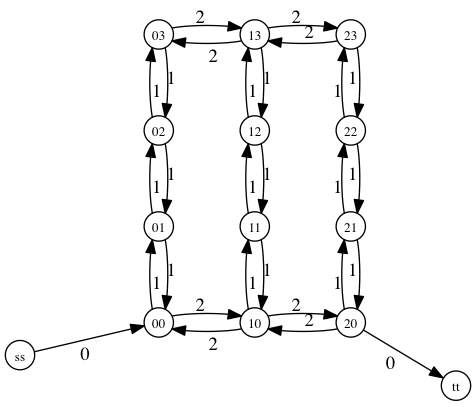
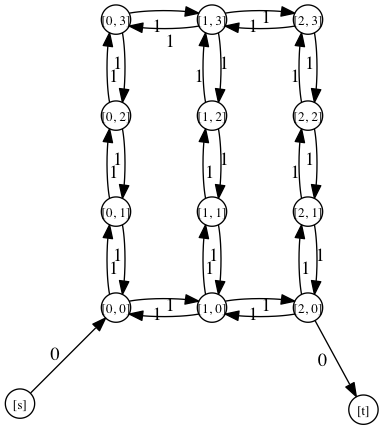
refactor code into classes for transition into Java

diff --git a/src/graphs/graph_test.py b/src/graphs/graph_test.py
@@ -2,6 +2,159 @@
 
 import networkx as nx
 import matplotlib.pyplot as plt
+from functools import total_ordering
+
+@total_ordering
+class AisleGraphPrimalNode(object):
+    """ Nodes in the primal (directed) aisle graph. """
+
+    def __init__(self, x, y, sentinal=None):
+        """ x, y are coordinates in AisleGraph. Set `sentinal` to True if this
+        is a sentinal node. """
+        self.x = x
+        self.y = y
+        assert sentinal in (None, "source", "sink")
+        self.sentinal = sentinal
+        self.label = sentinal or "{}, {}".format(self.x, self.y)
+        self.adjacencies = []
+
+    def add_adjacency(self, node):
+        self.adjacencies.append(node)
+
+    def __repr__(self):
+        return "[{}]".format(self.label)
+
+    # Make object hashable
+    def __key(self):
+        return (self.x, self.y)
+    def __eq__(self, other):
+        return self.__key() == other.__key()
+    def __lt__(self, other):
+        return self.__key() < other.__key()
+    def __hash__(self):
+        return hash(self.__key())
+
+class AisleGraphSource(AisleGraphPrimalNode):
+    def __init__(self):
+        AisleGraphPrimalNode.__init__(self, -1, -1, sentinal="source")
+        self.label = "s"
+class AisleGraphSink(AisleGraphPrimalNode):
+    def __init__(self):
+        AisleGraphPrimalNode.__init__(self, -1, -1, sentinal="sink")
+        self.label = "t"
+
+@total_ordering
+class AisleGraphPrimalEdge(object):
+    """ Edge in the primal (directed) aisle graph. """
+
+    def __init__(self, n1, n2):
+        """ creates an edge from node n1 to node n2
+        """
+        self.start = n1
+        self.end = n2
+        self.is_aisle = self.start.x == self.end.x
+        self.weight = self._weight()
+        self.start.add_adjacency(end)
+
+    def _weight(self):
+        weight = 1
+        if self.start.sentinal or self.end.sentinal:
+            weight = 0
+        return weight
+
+    def __repr__(self):
+        return repr((self.start, self.end))
+
+    # Make object hashable
+    def __key(self):
+        return (self.start, self.end)
+    def __eq__(self, other):
+        return self.__key() == other.__key()
+    def __lt__(self, other):
+        return self.__key() < other.__key()
+    def __hash__(self):
+        return hash(self.__key())
+
+@total_ordering
+class AisleGraphDualNode(object):
+    """ Nodes in the linear dual aisle graph. """
+    def __init__(self, primal_edge):
+        """ creates a dual node corresponding to a primal_edge """
+        self.edge = primal_edge
+        self.is_aisle = self.edge.is_aisle
+
+    def primal_edge(self):
+        """ returns primal edge corresponding to this node """
+        return self.edge
+
+    def __repr__(self):
+        return repr(self.edge)
+
+    # Make object hashable
+    def __key(self):
+        return self.edge
+    def __eq__(self, other):
+        return self.__key() == other.__key()
+    def __lt__(self, other):
+        return self.__key() < other.__key()
+    def __hash__(self):
+        return hash(self.__key())
+
+class DualAngles(object):
+    """ enum for angles in dual graph """
+    ZERO = 0
+    PI2 = 1
+    PI = 2
+
+@total_ordering
+class AisleGraphDualEdge(object):
+    """ Edges in linear dual aisle graph. """
+
+    def __init__(self, n1, n2):
+        """ Creates a dual edge from node n1 to n2
+        """
+        self.start = n1
+        self.end = n2
+        self.angle = self._angle()
+        self.weight = self._weight()
+
+    def _angle(self):
+        if self.start.is_aisle != self.end.is_aisle:
+            # right angle
+            return DualAngles.PI2
+        elif self.start.start == self.end.end:
+            # U-turn
+            return DualAngles.PI
+        else:
+            return DualAngles.ZERO
+
+    def _weight(self):
+        return ((self.start.weight + self.end.weight) / 2. 
+                + self._weight_of_angle(self.angle))
+
+    def _weight_of_angle(self, dual_angle):
+        """ returns weight associated with given angle """
+        # favor right angles, penalize u-turns
+        weights = {
+            DualAngles.ZERO: 2,
+            DualAngles.PI2: 1,
+            DualAngles.PI: 5
+        }
+        return weights[dual_angle]
+
+    def __repr__(self):
+        return repr((self.start, self.end))
+
+    # Make object hashable
+    def __key(self):
+        return (self.start, self.end)
+    def __eq__(self, other):
+        return self.__key() == other.__key()
+    def __lt__(self, other):
+        return self.__key() < other.__key()
+    def __hash__(self):
+        return hash(self.__key())
+
 
 class AisleGraph(object):
     """ Graph for grocery store aisles """
@@ -10,65 +163,70 @@ class AisleGraph(object):
         self.aisle_count = aisle_count
         self.nodes_per_aisle = nodes_per_aisle
 
-        self.U = nx.grid_2d_graph(aisle_count, nodes_per_aisle)
-        # remove generated edges between mid-aisle nodes
-        for i in range(aisle_count - 1):
-            for j in range(1, nodes_per_aisle - 1):
-                self.U.remove_edge((i,j), (i+1,j))
-
-        end = end or (aisle_count - 1, 0)
-        self.G = self.U.to_directed()
-        self.source = self.sink = None
-        self.add_sentinals(start, end)
-        self.add_node_labels()
-        self.add_edge_weights()
+        self.G = nx.DiGraph()
+        self.create_graph(start, end)
         self.node = self.G.node
         self.edge = self.G.edge
 
-    def add_edge_weights(self):
-        for u,v in self.G.edges():
-            w = self.edge_weight(u,v)
-            self.G[u][v].update(weight=w, label=w)
+    def edges(self, *args, **kwargs):
+        return sorted(self.G.edges(*args, **kwargs))
+    def nodes(self, *args, **kwargs):
+        return sorted(self.G.nodes(*args, **kwargs))
 
-    def add_node_labels(self):
-        for node in self.G.nodes():
-            if self.is_sentinal(node):
-                self.G.node[node].update(label=node)
-            else:
-                self.G.node[node].update(label="{}{}".format(node[0], node[1]))
+    def create_graph(self, start, end=None):
+        self.create_aisle(0)
+        for x in range(1, self.aisle_count):
+            self.create_aisle(x)
+            self.connect_aisles(x - 1, x)
 
-    def edge_weight(self, u, v):
-        """ returns weight of edge between nodes u and v """
-        weight = 0
-        if self.is_sentinal(u, v):
-            weight = 0
-        elif self.co_aisle(u, v):
-            weight = 1
-        else:
-            weight = 2
-        return weight
+        end = end or (self.aisle_count - 1, 0)
+        self.add_sentinals(start, end)
+        self.add_node_labels()
+
+    def create_aisle(self, x_coord):
+        """ creates an aisle of nodes at x coordinate x_coord. 
+        """
+        n1 = AisleGraphPrimalNode(x_coord, 0)
+        for y in range(1, self.nodes_per_aisle):
+            n2 = AisleGraphPrimalNode(x_coord, y)
+            self.create_double_edge(n1, n2)
+            n1 = n2
+
+    def connect_aisles(self, x1, x2):
+        """ Connects top and bottom nodes of aisles at x1 and x2 """
+        for y in (0, self.nodes_per_aisle - 1):
+            n1 = AisleGraphPrimalNode(x1, y)
+            n2 = AisleGraphPrimalNode(x2, y)
+            assert (n1 in self.nodes())
+            assert (n2 in self.nodes())
+            self.create_double_edge(n1, n2)
+
+    def create_double_edge(self, n1, n2):
+        """ creates edges (n1, n2) and (n2, n1) """
+        forward = n1, n2
+        reverse = n2, n1
+        for direction in (forward, reverse):
+            self.create_single_edge(*direction)
+
+    def create_single_edge(self, n1, n2):
+            e = AisleGraphPrimalEdge(n1, n2)
+            w = e.weight
+            self.G.add_edge(n1, n2, object=e, weight=w, label=w)
 
     def add_sentinals(self, start, end):
         """ adds the dummy source node going to `start`, and the dummy sink
         node going to `end` """
-        self.source = "ss"
-        self.sink = "tt"
+        self.source = AisleGraphSource()
+        self.sink = AisleGraphSink()
+
+        start = AisleGraphPrimalNode(*start)
+        end = AisleGraphPrimalNode(*end)
         for edge in ((self.source, start), (end, self.sink)):
-            self.G.add_edge(*edge, weight=0)
+            self.create_single_edge(*edge)
 
-
-    def is_sentinal(self, *nodes):
-        """ returns True if any node in `node_list` is a sentinal """
-        sentinals = (self.source, self.sink)
-        for n in nodes:
-            if n in sentinals:
-                return True
-        return False
-
-    def co_aisle(self, u, v):
-        """ returns True if nodes u and v are on the same aisle """
-        return not self.is_sentinal(u,v) and u[0] == v[0]
-        
+    def add_node_labels(self):
+        for node in self.G.nodes():
+            self.G.node[node].update(label=repr(node))
 
     def draw(self, filename, node_labels=True):
         A = nx.to_agraph(self.G)
@@ -80,15 +238,9 @@ class AisleGraph(object):
         else:
             A.node_attr['shape'] = 'point'
         for node in self.G:
-            if not self.is_sentinal(node):
-                n = A.get_node(node)
-                n.attr.update(pos = "{},{}!".format(node[0], node[1]))
+            n = A.get_node(node)
+            n.attr.update(pos = "{},{}!".format(node.x, node.y))
         A.draw(filename, prog='neato')
-
-    def edges(self, *args, **kwargs):
-        return sorted(self.G.edges(*args, **kwargs))
-    def nodes(self, *args, **kwargs):
-        return sorted(self.G.nodes(*args, **kwargs))
 
 
 class DualGraph(object):
@@ -106,18 +258,21 @@ class DualGraph(object):
         self.add_dual_edges()
 
     def add_dual_nodes(self):
-        for edge in self.aisle_graph.edges():
-            self.add_dual_node(edge)
-
-    def add_dual_node(self, primal_edge):
-        s, t = primal_edge
-        label = "[{}{}]".format(
-            self.aisle_graph.node[s]['label'],
-            self.aisle_graph.node[t]['label']
-        )
-        self.dual_graph.add_node((s,t), label=label)
+        for edge in self.aisle_graph.edges(data=True):
+            primal_edge = edge[2]['object']
+            dual_node = AisleGraphDualNode(primal_edge)
+            self.dual_graph.add_node(dual_node, label=str(dual_node))
 
     def add_dual_edges(self):
+        for node in self.dual_graph.nodes():
+            primal_edge_1 = node.primal_edge
+            primal_edge_end = primal_edge_1.end
+            for adj in end.adjacencies:
+                # TODO
+                # need a way to find, given two primal nodes n1, n2 in Vp, the
+                # node v12 in Vd that corresponds to the edge (n1 -> n2) in Ep
+
+
         for node_0  in self.dual_graph.nodes():
             for node_1 in self.dual_graph.nodes():
                 if self.are_adjacent(node_0, node_1):
@@ -205,9 +360,9 @@ if __name__ == '__main__':
     # node_positions = dict(zip(G,G))
 
     G.draw('G.png')
-
     D = DualGraph(G)
-    A = D.draw('D.png')
+
+    # A = D.draw('D.png')
 
     # for i, (f, l) in enumerate(H.edges()):
     #     H.edge[f][l]['id'] = i
